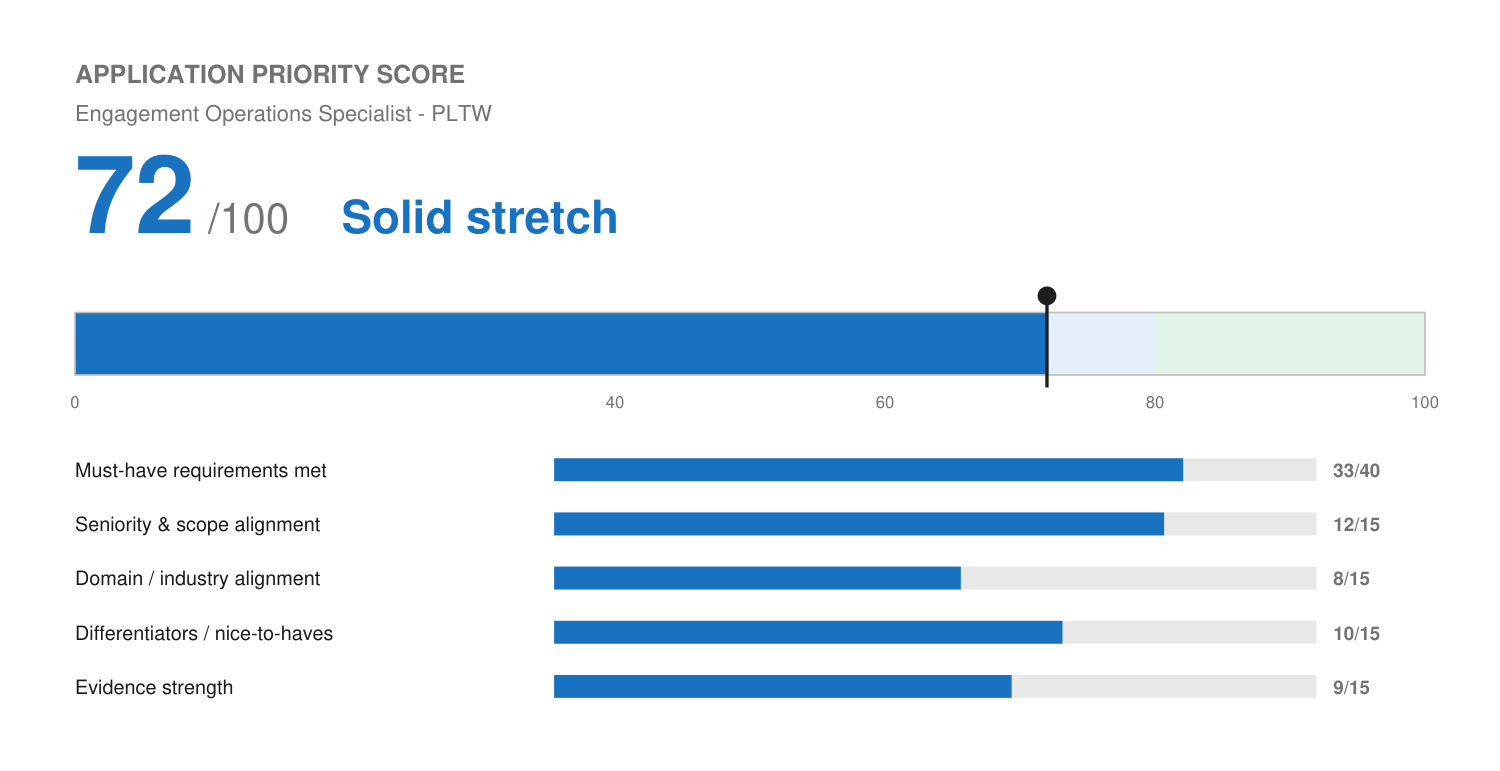
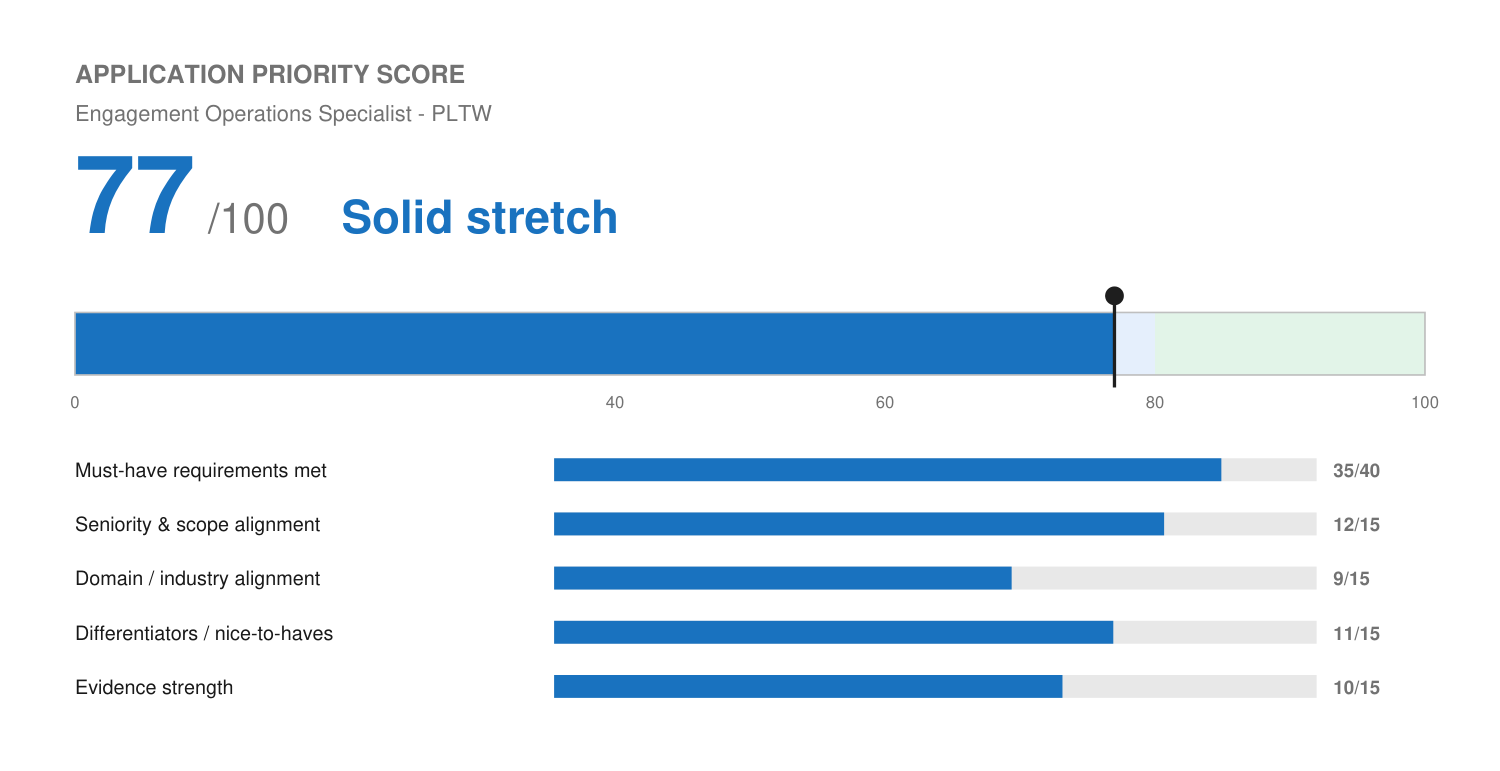
Update PLTW application with confirmed PandaDoc/Adobe Sign and K-12 connection (score 72 -> 77)
Added two new confirmed facts to master-profile.md: hands-on PandaDoc
and Adobe Sign experience for agreement/e-signature workflows, and a
genuine personal connection to K-12 education (Josh's wife is a
PreK-6 vice principal). Both are real, both used honestly, neither
is professional K-12 industry experience.

Rebuilt the PLTW resume and cover letter to reflect the tool
confirmation and the personal connection, and rescored: 72 -> 77.
Still short of the 80+ band on genuine content (no formal contract/
procurement-administration ownership, no professional K-12 experience)
rather than presentation, stated plainly in the match report.

Claude-Session: https://claude.ai/code/session_01NbVZsCcsxhZmD6mekvh8hj

diff --git a/applications/pltw-engagement-operations-specialist/match-report.md b/applications/pltw-engagement-operations-specialist/match-report.md
@@ -14,7 +14,7 @@
 | Degree requirement | Resume-evidenced | Bachelor's in "business, operations, education, or a related field, or equivalent related experience." Josh holds a B.A. in Liberal Arts with a Political Science minor — not an exact match to the named fields, but the "equivalent related experience" clause plus 15+ years of professional operations/sales experience clears this. Not a knockout. |
 | Occasional travel | **Needs candidate confirmation** | Posting states "Occasional travel required" with no percentage given. Nothing in Josh's profile documents a travel constraint or preference either way. Confirm his actual availability/comfort level before answering this on the application — don't assume. |
 | Compensation expectations | Application-form requirement | Not stated in the posting. This is a specialist/coordinator-level IC role, similar in scope to the Jama Software Associate Deal Desk Analyst posting that set the master-profile baseline. Target **$72K–$78K, anchor $75K** applies reasonably well here — with the caveat that nonprofit/education-sector pay can run below SaaS-company norms for a comparable title, so treat the anchor as a starting point, not a floor to insist on. |
-| K-12 / school-district purchasing familiarity | Gap (soft, not a stated hard requirement) | Listed among desired professional skills, not in the separate "Qualifications" (gating) section. Genuine gap — Josh has no education-sector experience. Addressed plainly in the cover letter rather than glossed over. |
+| K-12 / school-district purchasing familiarity | Gap (soft, not a stated hard requirement) | Listed among desired professional skills, not in the separate "Qualifications" (gating) section. Josh has no professional education-sector experience — genuine gap, still true. He does have a real personal connection (his wife is a PreK-6 vice principal), used honestly in the cover letter as informed personal interest, kept explicitly separate from professional experience. |
 
 **No confirmed hard eligibility failure — the eligibility cap was not applied.**
 
@@ -23,21 +23,21 @@
 ## Application Priority Score
 
 ```
-🔵 Application Priority Score: 72 / 100 — Solid stretch
-[██████████████░░░░░░]  72%
+🔵 Application Priority Score: 77 / 100 — Solid stretch
+[███████████████░░░░░]  77%
 ```
 
 Internal decision aid only — not a prediction of PLTW's own screening outcome. See `fit.png` for the visual breakdown.
 
 | Dimension | Score | Max |
 | :--- | :--- | :--- |
-| Must-have requirements met | 33 | 40 |
+| Must-have requirements met | 35 | 40 |
 | Seniority & scope alignment | 12 | 15 |
-| Domain / industry alignment | 8 | 15 |
-| Differentiators / nice-to-haves | 10 | 15 |
-| Evidence strength | 9 | 15 |
+| Domain / industry alignment | 9 | 15 |
+| Differentiators / nice-to-haves | 11 | 15 |
+| Evidence strength | 10 | 15 |
 
-**Why 72, plainly:** the actual gating qualifications (a degree or equivalent experience, and experience supporting sales/CS/deal-support/customer-facing processes) are both cleanly met, and the professional-skills list, CRM proficiency, multi-stakeholder coordination, organizational rigor, communication, remote-team fit, reads like a description of Josh's last 15 years. The honest gaps are the K-12/education vertical (no exposure at all) and the specific muscle of formal contract/DPA/procurement administration, which Josh has touched adjacently (budget planning, deal cycles as an AE) but never owned as a dedicated function. Neither is disqualifying; both are worth naming rather than papering over.
+**Why 77, up from an initial 72, plainly:** two real, newly confirmed facts moved this score, not rewording. First, Josh has hands-on experience with PandaDoc and Adobe Sign for sending and managing agreements, directly closing part of the "agreement administration" gap (must-haves 33→35, differentiators 10→11). Second, Josh's wife is a PreK-6 vice principal, a genuine personal connection to K-12 education that supports an honest, informed interest in this specific sector even though it isn't professional experience (domain 8→9). What did **not** move: formal ownership of contract/DPA/procurement-cooperative administration as a dedicated function is still an adjacency, not direct experience, and a fresh quantified deal/quote-volume number never materialized (Josh confirmed it varies by role rather than giving a fixed figure, so the existing verified metrics — Fetch & Funnel's 6 deals/~$130K, Accelo's ~$17,750/month bookings — carry the evidence dimension instead of a new stat). **77 is short of the 80+ "Strong fit" band on genuine content, not on presentation** — closing the rest requires either real K-12/education-sector experience or formal contract-administration ownership, neither of which can be manufactured by rewriting bullets.
 
 ---
 
@@ -49,7 +49,7 @@ Internal decision aid only — not a prediction of PLTW's own screening outcome.
 | Experience supporting sales/CS/sales ops/deal support/customer-facing processes | Strong | AE, account management, and onboarding roles across 6 employers |
 | Coordinate complex, deadline-driven, multi-stakeholder processes | Strong | Concurrent client management (Solenzo), 15–20 partner accounts (Birdeye), 25+ onboarding launches/month (Wix) |
 | Relationship-building, communication, problem-solving | Strong | Career-long client-facing roles |
-| Knowledge of customer purchasing, procurement, contracting, agreement administration | Adjacent | Ad-spend budget planning (Level Agency), deal-cycle experience as an AE closing $20K+ deals (Accelo); no formal contract/DPA/procurement-administration ownership |
+| Knowledge of customer purchasing, procurement, contracting, agreement administration | Adjacent (strengthened) | Ad-spend budget planning (Level Agency), deal-cycle experience as an AE closing $20K+ deals (Accelo), plus hands-on PandaDoc and Adobe Sign use for sending/managing agreements; still no formal contract/DPA/procurement-cooperative administration ownership as a dedicated function |
 | Salesforce / CRM proficiency | Strong | Salesforce as primary CRM at Birdeye and Wix; HubSpot and GoHighLevel elsewhere |
 | Manage multiple projects with attention to detail | Strong | Consistent across all roles |
 | Organizational skills, milestone tracking | Strong | CRM-based project/timeline tracking at Solenzo |
@@ -65,17 +65,20 @@ Internal decision aid only — not a prediction of PLTW's own screening outcome.
 - **Salesforce fluency across two employers**, directly matching the posting's named CRM.
 - **Genuine multi-stakeholder deal and account coordination** at volume: 15–20 partner accounts at Birdeye, 25+ onboarding launches/month at Wix.
 - **Real budget-planning and cross-channel account advisory experience** (Level Agency) that maps onto the quoting/deal-support side of this role.
+- **Hands-on PandaDoc and Adobe Sign experience**, direct evidence against the "agreement administration" ask.
+- **A genuine, informed personal connection to K-12 education** (spouse is a PreK-6 vice principal) to draw on honestly in a cover letter or interview, distinct from claiming professional experience.
 - **A track record of building the exact kind of process improvements** the posting asks for (CRM workflow design, reporting accuracy, handoff-error reduction).
 
 ## Gaps
 
-- No K-12, school-district, or broader education-sector experience.
-- No formal ownership of contract administration, DPAs, or procurement-cooperative processes specifically, only adjacent deal-cycle and budget-planning exposure.
+- No professional K-12, school-district, or broader education-sector experience (personal connection noted above, kept explicitly separate).
+- No formal ownership of contract administration, DPAs, or procurement-cooperative processes specifically, only adjacent deal-cycle, budget-planning, and e-signature-tool exposure.
 - No documented experience with vendor-onboarding or legal/privacy-review coordination as a named function.
 
 ## Candidate Confirmation Needed
 
 - **Travel comfort/availability** — the posting says "occasional travel required" without a percentage. Confirm with Josh before answering this on the application.
+- **Which employer used which e-signature tool** — Josh confirmed hands-on use of both PandaDoc and Adobe Sign but not which employer used which. Not needed for the current resume (kept role-agnostic in Competencies), but worth pinning down if an interviewer asks directly.
 
 ## Metrics Needed
 

diff --git a/profile/master-profile.md b/profile/master-profile.md
@@ -133,6 +133,16 @@ band.
   (e.g., Eltropy) alongside the Fetch & Funnel banking-client experience above, kept
   explicitly distinct from it: this is personal motivation, that is professional evidence.
 
+## Personal connection to K-12 education (confirmed Sep 2026)
+
+- Josh's wife is a PreK-6 vice principal. This is a genuine personal/family connection to
+  K-12 education, not a positioning angle. Usable as an honest personal note for K-12/
+  education-sector postings (e.g., PLTW) to explain genuine interest and informed
+  familiarity with how school administration operates day to day. **Keep this explicitly
+  distinct from professional K-12 industry experience, which Josh does not have** — this
+  is family/personal grounding, never to be represented as his own work history in a
+  school or district.
+
 ## Personal commitment to immigrant and refugee communities (confirmed Sep 2026)
 
 - Josh has confirmed a full, genuine personal commitment to helping immigrant and refugee
@@ -543,6 +553,14 @@ operator talking, not like a candidate performing.
 > pipeline visibility and forecast hygiene; he has not run a formal team forecast cadence
 > or owned a territory-planning process, keep that distinction honest against a JD asking
 > specifically for that broader scope.
+>
+> **E-signature / agreement tools — PandaDoc and Adobe Sign (confirmed by Josh, Sep
+> 2026):** Josh has hands-on experience sending and managing agreements through both
+> PandaDoc and Adobe Sign across his sales/account-management career, with which tool
+> used varying by employer. Exact tool-to-employer attribution not yet captured — ask
+> Josh before writing a role-specific bullet naming one tool at one company; safe to use
+> today in a role-agnostic competencies/tools list, and directly relevant to any JD asking
+> for agreement administration or e-signature/CLM-adjacent tooling.
 
 | Category | Competencies |
 | :--- | :--- |
